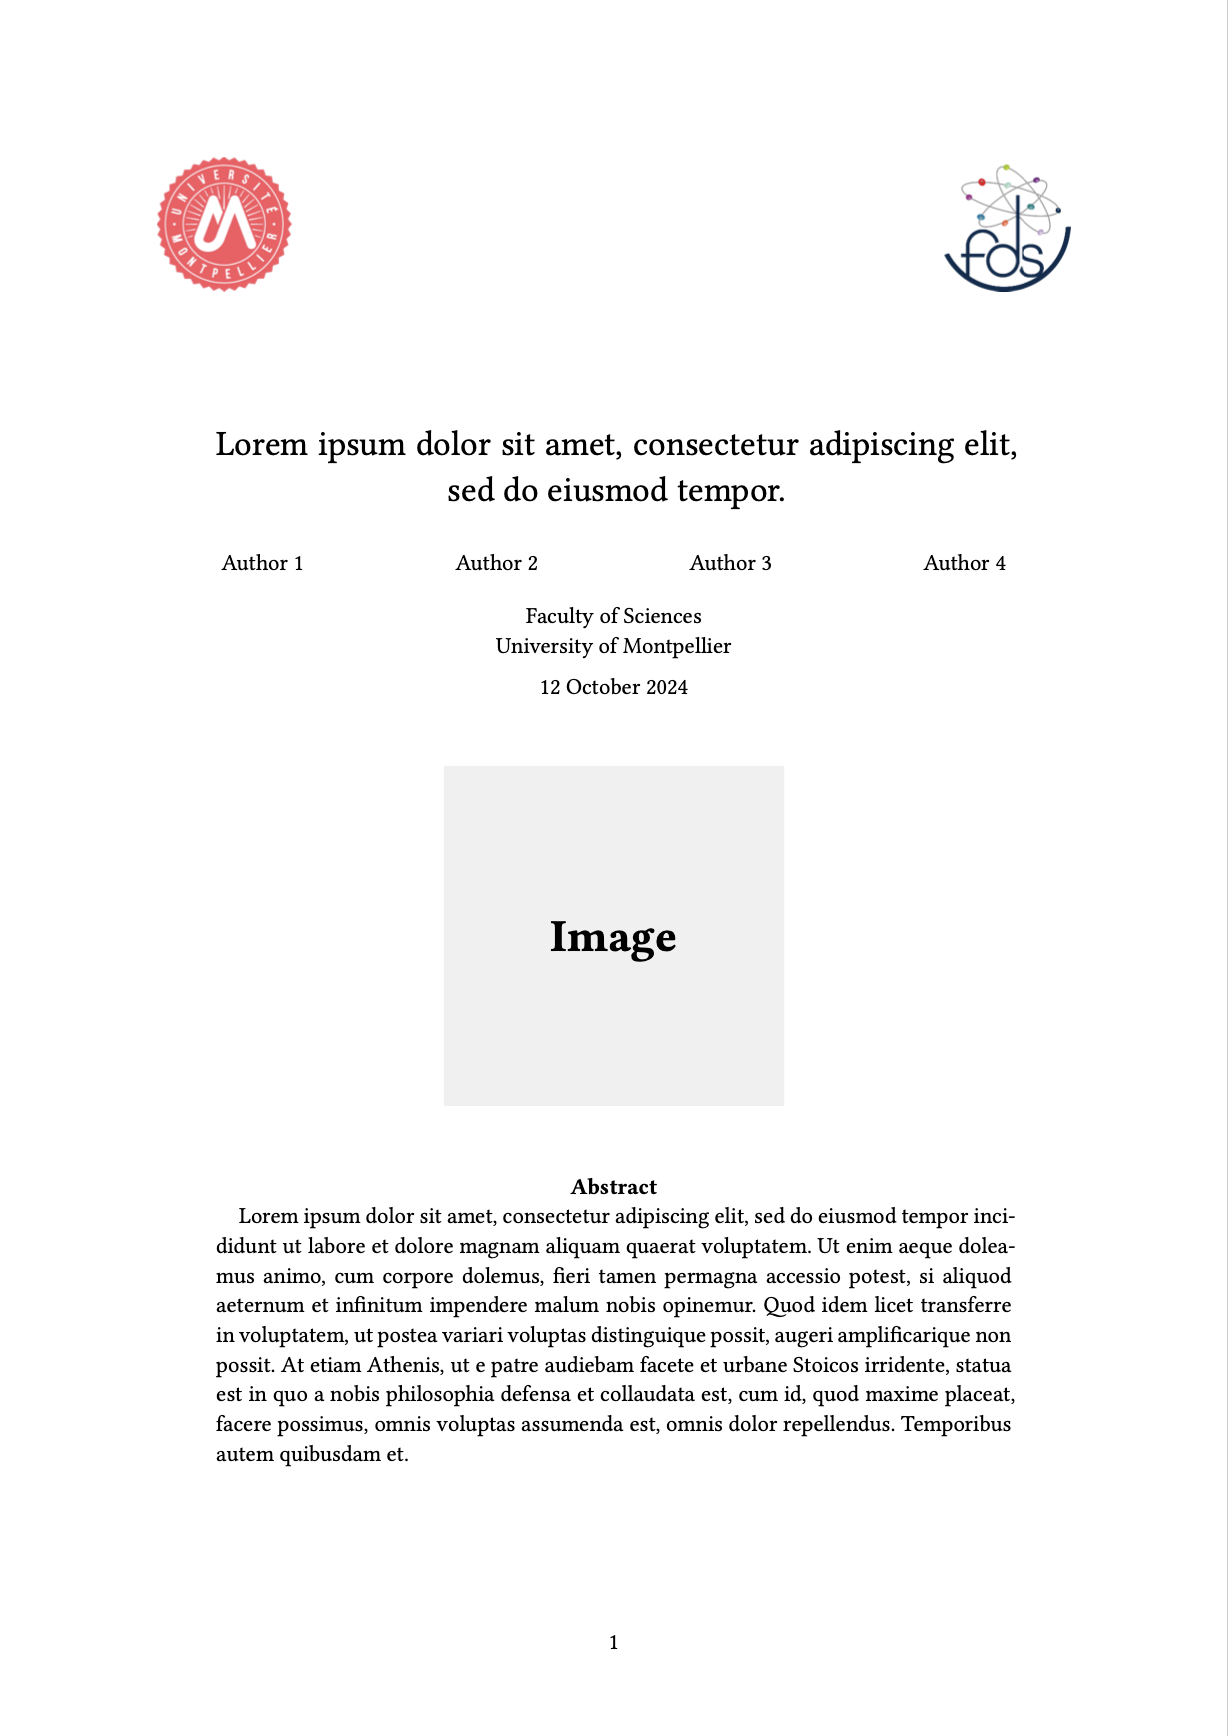
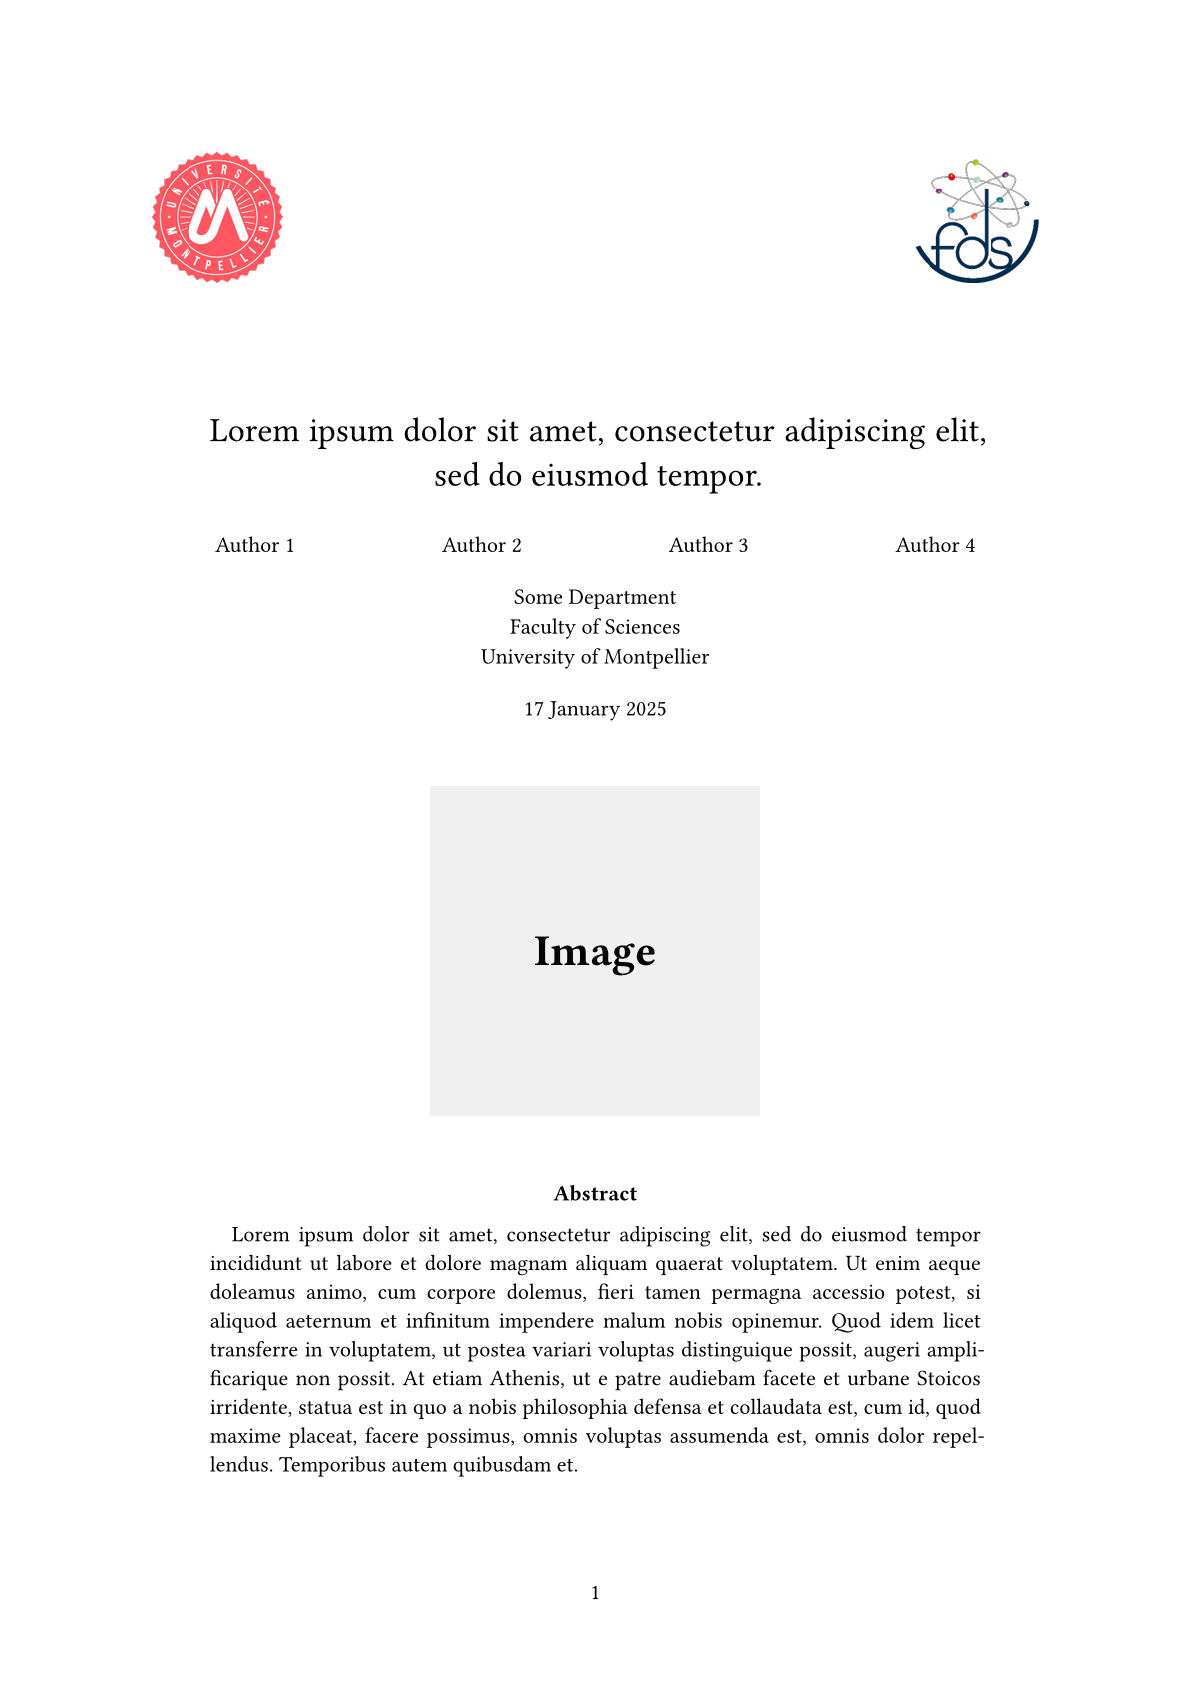
feat: version 0.1.2

diff --git a/README.md b/README.md
@@ -5,7 +5,7 @@ A template for writing reports for the Faculty of Sciences of the University of 
 Basic usage:
 
 ```typst
-#import "@preview/modern-report-umfds:0.1.1": umfds
+#import "@preview/modern-report-umfds:0.1.2": umfds
 
 #show: umfds.with(
   title: [Your report title],
@@ -15,12 +15,13 @@ Basic usage:
     "Author 3",
     "Author 4"
   ),
-  date: datetime.today().display("[day] [month repr:long] [year]"), // or any string
+  department: [Some Department], // optional
+  date: datetime.today().display("[day] [month repr:long] [year]"), // optional
   img: image("cover.png"), // optional
   abstract: [
     Your abstract, optional
   ],
-  bibliography: bibliography("refs.bib", full: true), // optional
+  full: false, // if the cover page should take all the first page (true by default)
   lang: "en", // or "fr"
 )
 
